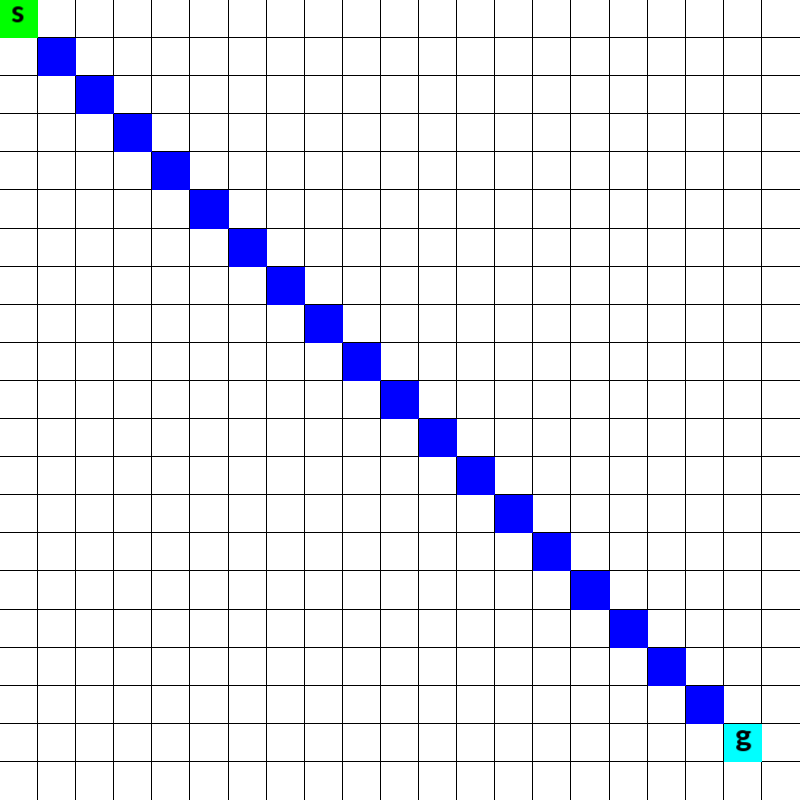
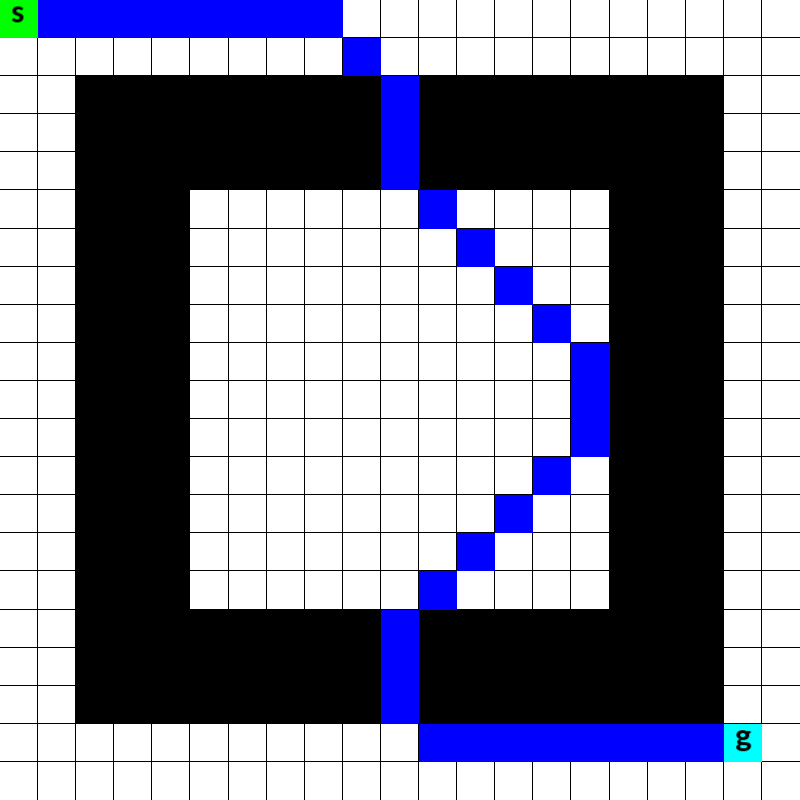
Added functions for constructing obstacle matrices

diff --git a/GridWorld/GridWorldDomain.cpp b/GridWorld/GridWorldDomain.cpp
@@ -1,5 +1,8 @@
 #include <iostream>
 #include <stdexcept>
+#include <cmath>
+#include <algorithm>
+#include <random>
 #include "GridWorldDomain.h"
 
 GridWorldDomain::GridWorldDomain(size_t R, size_t C, 
@@ -13,7 +16,7 @@ GridWorldDomain::GridWorldDomain(size_t R, size_t C,
     }
     
     if (obstacle_matrix.empty()) {
-        initializeDefaultObstacleMatrix();
+        create_empty_obstacle_matrix();
     } else {
         if (obstacle_matrix.size() != R_ || (R_ > 0 && obstacle_matrix[0].size() != C_)) {
             cerr << "ERROR: Obstacle matrix dimensions mismatch" << endl;
@@ -53,7 +56,86 @@ void GridWorldDomain::initializeDefaultActions() {
     actions_.push_back(GridAction(-1, 1));
 }
 
-void GridWorldDomain::initializeDefaultObstacleMatrix() {
-    // Create a RxC matrix with all zeros (false).
+void GridWorldDomain::create_empty_obstacle_matrix() {
+    // Create an empty obstacle matrix.
+    obstacle_matrix_.clear();
     obstacle_matrix_.resize(R_, vector<bool>(C_, false));
+}
+
+void GridWorldDomain::add_rectangle_obstacle(double rmin, double rmax, double cmin, double cmax) {
+    size_t rstart = max(static_cast<size_t>(0), static_cast<size_t>(ceil(rmin * R_) - 1));
+    size_t rend = ceil(rmax * R_);
+    size_t cstart = max(static_cast<size_t>(0), static_cast<size_t>(ceil(cmin * C_) - 1));
+    size_t cend = ceil(cmax * C_);
+    
+    for (size_t i = rstart; i < rend; ++i) {
+        for (size_t j = cstart; j < cend; ++j) {
+            obstacle_matrix_[i][j] = true;
+        }
+    }
+}
+
+void GridWorldDomain::create_border_obstacle_matrix() {
+    add_rectangle_obstacle(0.1, 0.2, 0.1, 0.45);
+    add_rectangle_obstacle(0.1, 0.2, 0.55, 0.9);
+    add_rectangle_obstacle(0.8, 0.9, 0.1, 0.45);
+    add_rectangle_obstacle(0.8, 0.9, 0.55, 0.9);
+    add_rectangle_obstacle(0.1, 0.45, 0.1, 0.2);
+    add_rectangle_obstacle(0.55, 0.9, 0.1, 0.2);
+    add_rectangle_obstacle(0.1, 0.45, 0.8, 0.9);
+    add_rectangle_obstacle(0.55, 0.9, 0.8, 0.9);
+
+    // Close right entrance.
+    add_rectangle_obstacle(0.4, 0.6, 0.1, 0.2);
+    add_rectangle_obstacle(0.4, 0.6, 0.8, 0.9);
+
+    // Corners.
+    add_rectangle_obstacle(0, 0.11, 0.89, 1);
+    add_rectangle_obstacle(0.89, 1, 0, 0.11);
+}
+
+void GridWorldDomain::create_corner_obstacle_matrix() {
+    add_rectangle_obstacle(0.8, 0.9, 0.4, 0.9);
+    add_rectangle_obstacle(0.4, 0.9, 0.8, 0.9);
+}
+
+void GridWorldDomain::create_blocks_obstacle_matrix() {
+    add_rectangle_obstacle(0.6, 0.85, 0.6, 0.85);
+    add_rectangle_obstacle(0.15, 0.4, 0.15, 0.4);
+}
+
+void GridWorldDomain::create_corridor_obstacle_matrix() {
+    add_rectangle_obstacle(0.35, 0.45, 0.1, 0.45);
+    add_rectangle_obstacle(0.35, 0.45, 0.55, 0.9);
+    add_rectangle_obstacle(0.55, 0.65, 0.1, 0.45);
+    add_rectangle_obstacle(0.55, 0.65, 0.55, 0.9);
+    add_rectangle_obstacle(0.1, 0.45, 0.35, 0.45);
+    add_rectangle_obstacle(0.55, 0.9, 0.35, 0.45);
+    add_rectangle_obstacle(0.1, 0.45, 0.55, 0.65);
+    add_rectangle_obstacle(0.55, 0.9, 0.55, 0.65);
+}
+
+void GridWorldDomain::create_random_obstacle_matrix(double density) {
+    default_random_engine generator;
+    uniform_real_distribution<double> distribution(0.0, 1.0);
+
+    for (size_t i = 0; i < R_; ++i) {
+        for (size_t j = 0; j < C_; ++j) {
+            if (distribution(generator) < density) {
+                obstacle_matrix_[i][j] = true;
+            }
+        }
+    }
+}
+
+set<GridState> GridWorldDomain::get_obstacle_set() const {
+    set<GridState> obstacles_set;
+    for (size_t r = 0; r < obstacle_matrix_.size(); ++r) {
+        for (size_t c = 0; c < obstacle_matrix_[r].size(); ++c) {
+            if (obstacle_matrix_[r][c]) {  
+                obstacles_set.insert(GridState(r, c));
+            }
+        }
+    }
+    return obstacles_set;
 }

diff --git a/GridWorld/GridWorldDomain.h b/GridWorld/GridWorldDomain.h
@@ -2,6 +2,7 @@
 #define GRID_WORLD_DOMAIN_H
 
 #include <vector>
+#include <set>
 #include "GridState.h"
 #include "GridAction.h"
 
@@ -18,15 +19,24 @@ public:
     size_t C() const { return C_; }
     const vector<vector<bool>>& get_obstacle_matrix() const { return obstacle_matrix_; }
     const vector<GridAction>& get_actions() const { return actions_; }
+    set<GridState> get_obstacle_set() const;
+
 
     bool is_obstacle(const GridState& state) const;
     bool is_valid_state(const GridState& state) const;
     bool is_valid_transition(const GridState& s1, const GridState& action, const GridState& s2) const;
-    const vector<vector<bool>>& getObstacleMatrix() const { return obstacle_matrix_; }
+
+    // Functions for creating obstacle matrices.
+    void add_rectangle_obstacle(double rmin, double rmax, double cmin, double cmax);
+    void create_empty_obstacle_matrix();
+    void create_border_obstacle_matrix();
+    void create_corner_obstacle_matrix();
+    void create_blocks_obstacle_matrix();
+    void create_corridor_obstacle_matrix();
+    void create_random_obstacle_matrix(double density);
 
 private:
     void initializeDefaultActions();
-    void initializeDefaultObstacleMatrix();
 
     size_t R_;
     size_t C_;

diff --git a/main.cpp b/main.cpp
@@ -8,7 +8,7 @@
 #include "GridWorldDomain.h"
 #include "GridWorldPlotter.h"
 #include "LTLFormula.h"
-// #include "utility_funcs.h"
+
 #include "TEGTask.h"
 
 using namespace std;
@@ -19,15 +19,13 @@ int main() {
     size_t R = 20 * scale + 1;
     size_t C = 20 * scale + 1;
 
-    // Create the obstacle matrix.
-    // vector<vector<bool>> obstacle_matrix = create_border_obstacle_matrix(R, C); 
-
     GridWorldDomain domain(R, C);
+    domain.create_border_obstacle_matrix();
 
     // Define default locations for atomic propositions
     GridState goal(19, 19);
-    GridState checkpoint(10, 10);
-    GridState hazard(9, 9);
+    GridState checkpoint(9, 10);
+    GridState hazard(9, 8);
     GridState start_grid_state(0, 0);
 
     vector<LTLFormula> ltl_formula_list = {
@@ -35,6 +33,7 @@ int main() {
     {"(F g) & (F c)", {{"g", set<GridState>{goal}}, {"c", set<GridState>{checkpoint}}}},
     {"(G (!h)) & (F d)", {{"g", set<GridState>{goal}}, {"h", set<GridState>{hazard}}}},
     {"G (!h) & F c & (G !g U c) & (c -> F g)", {{"g", set<GridState>{goal}}, {"h", set<GridState>{hazard}}, {"c", set<GridState>{checkpoint}}}}};
+
 
     cout << ltl_formula_list.at(0).get_formula() << endl;
 
